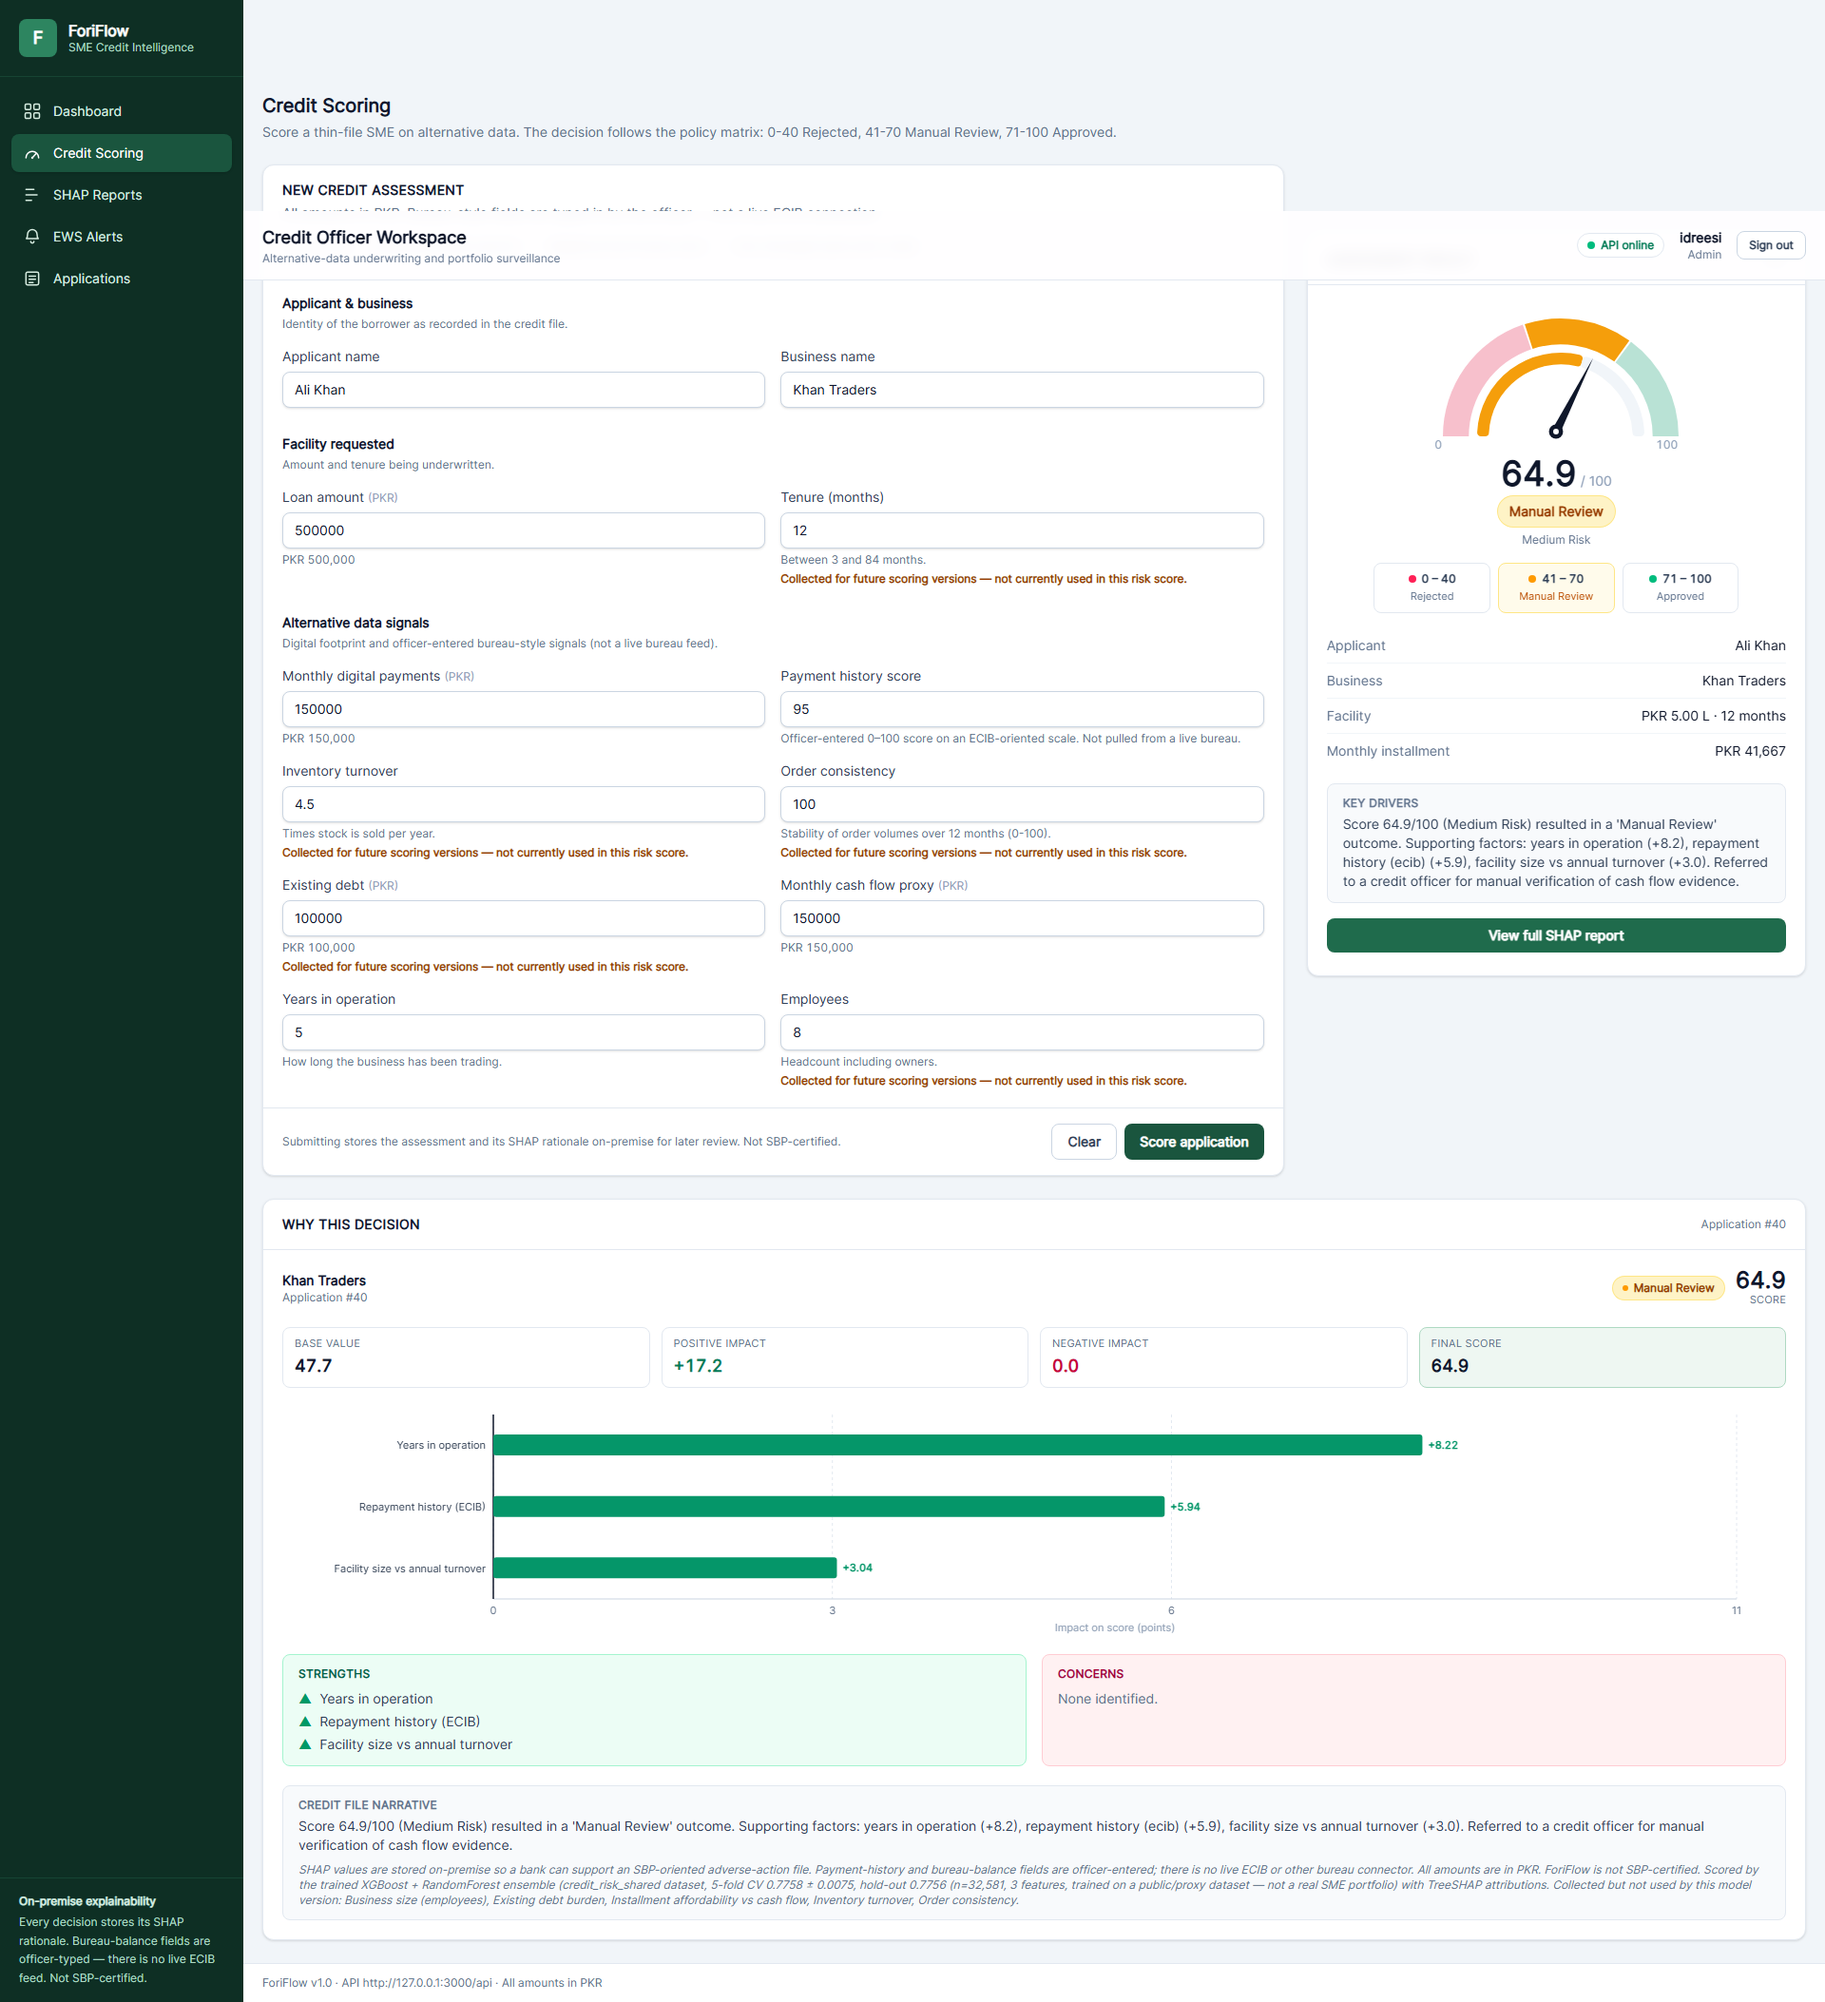
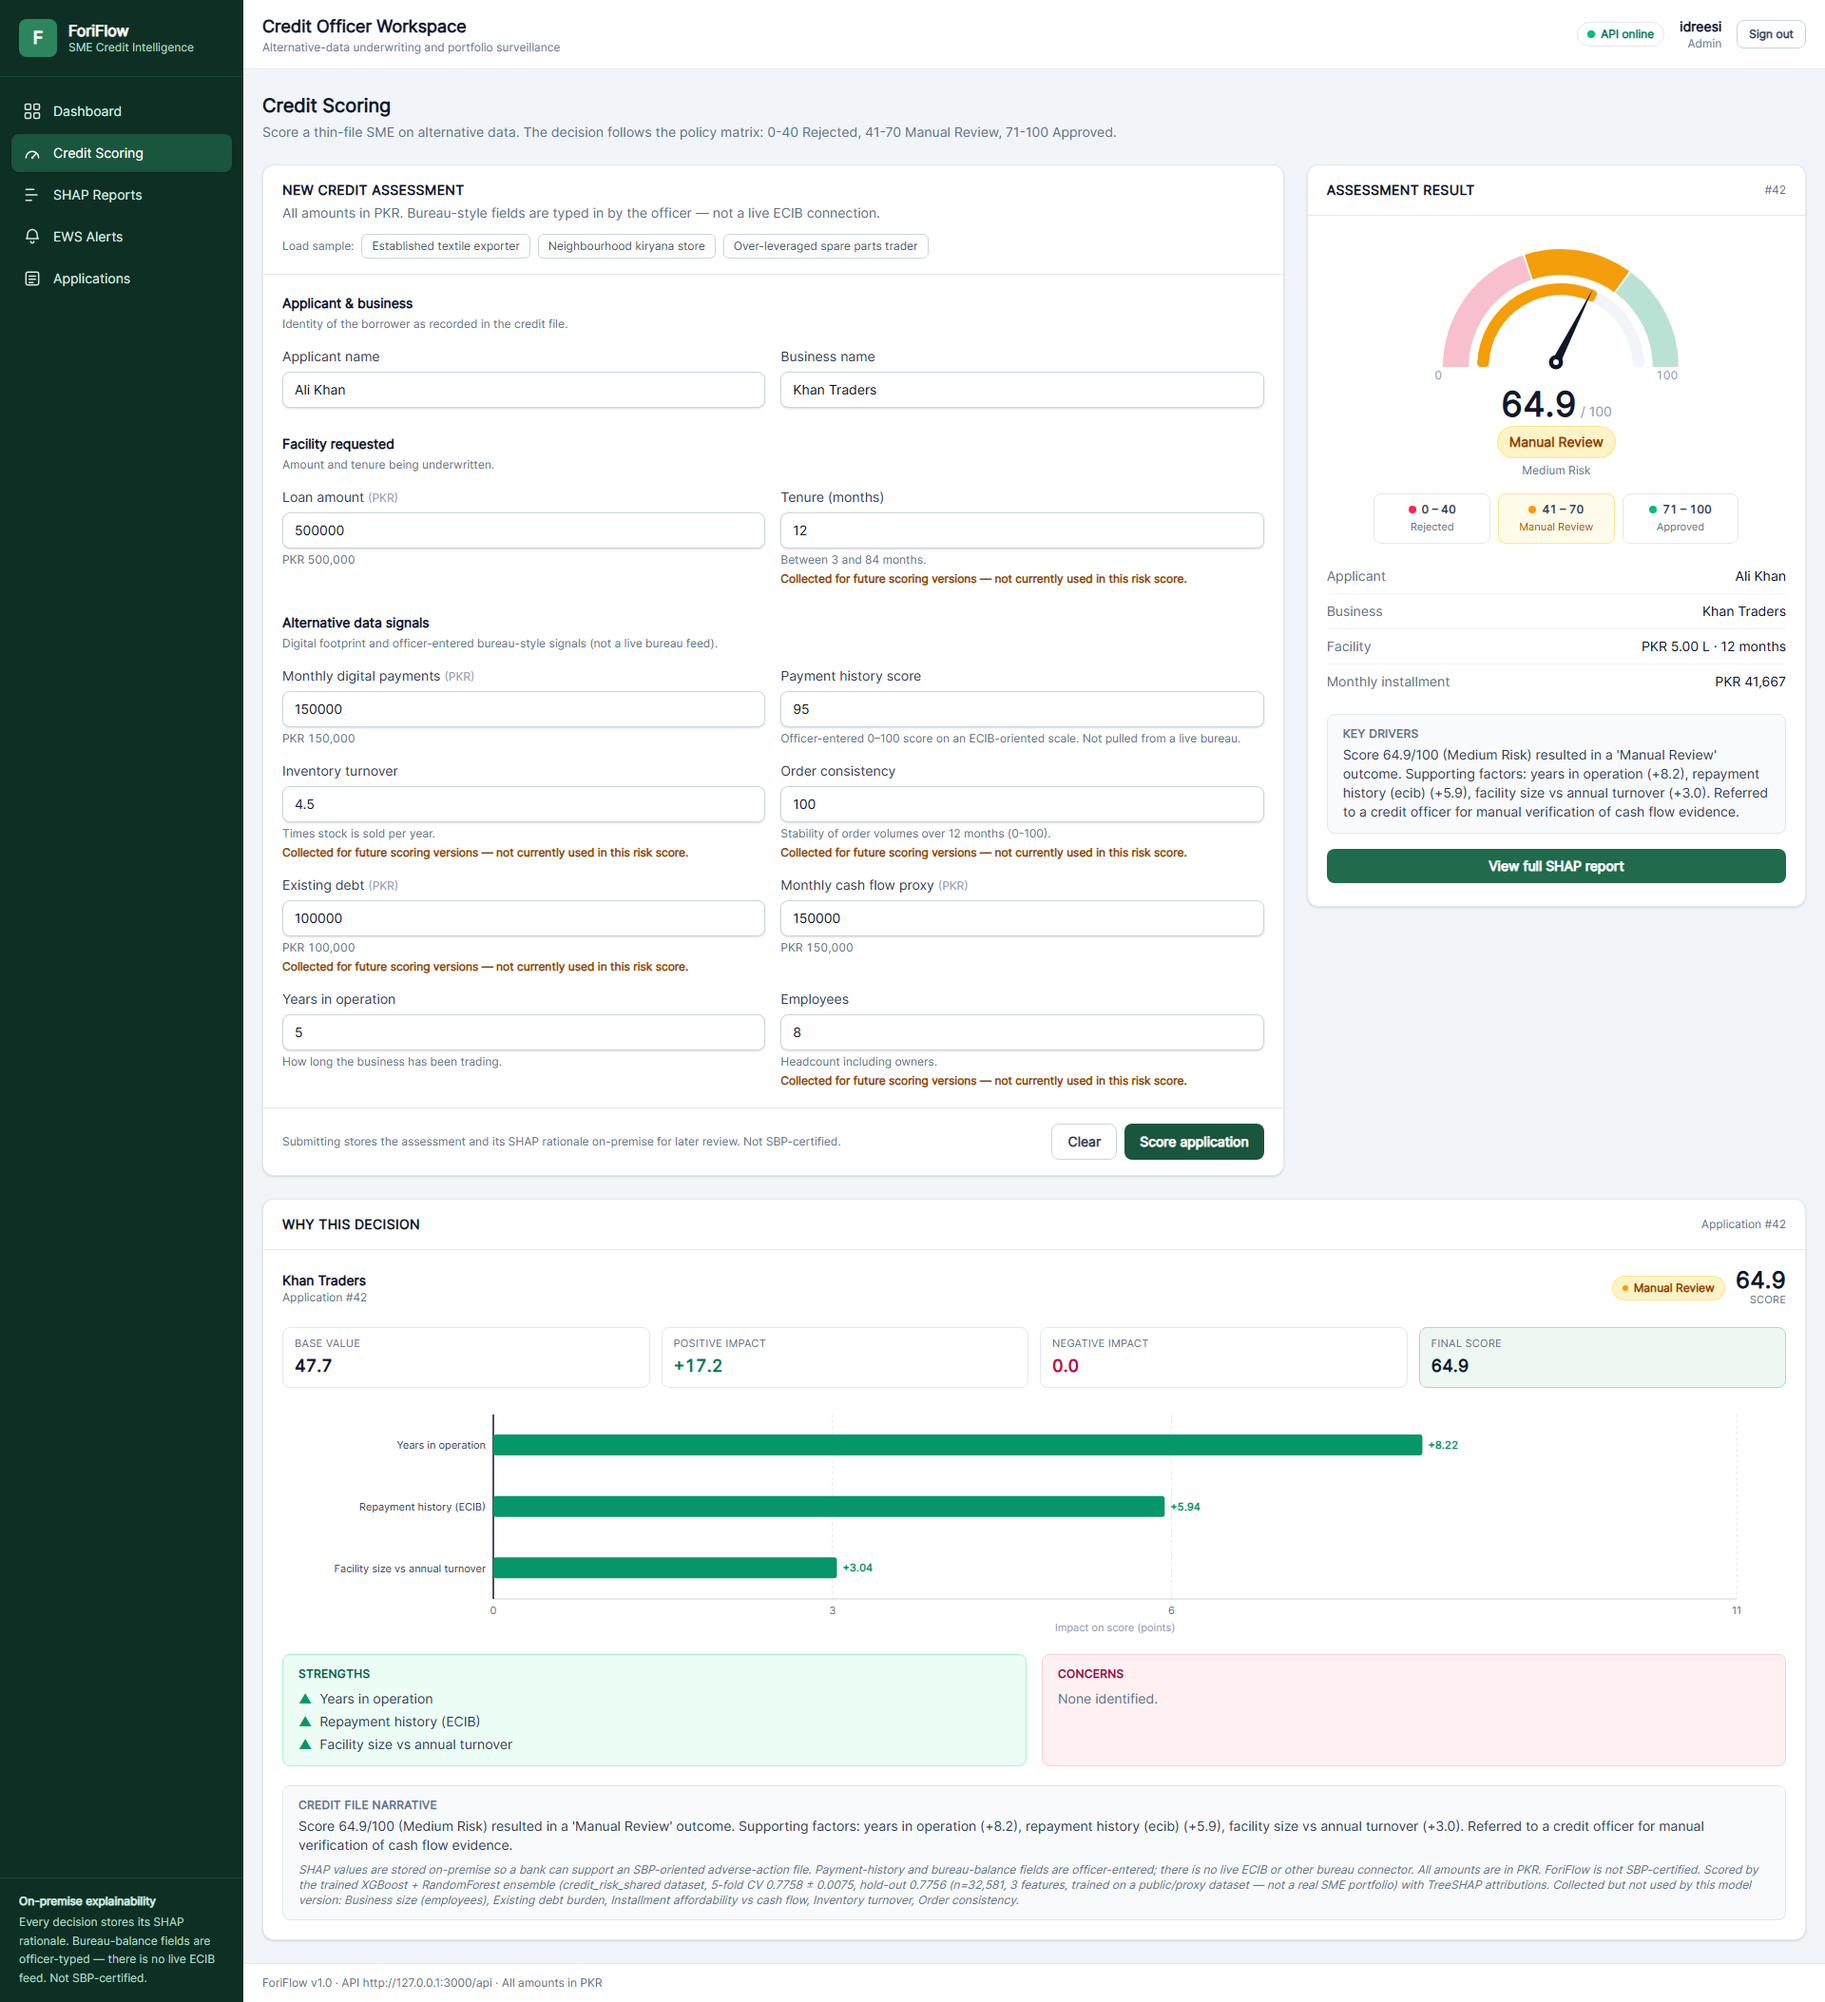
Fix full-page screenshot ghosting from sticky header/panel
- capture_auth2.py: the persistent App.jsx header (`sticky top-0`) and the
  Credit Scoring result panel (`xl:sticky`) are intentional UX, but
  Playwright's full_page screenshot works by scrolling and stitching
  viewport tiles, so a `position: sticky` element got re-painted into every
  tile and baked a duplicated/ghosted header into the exported PNG on pages
  taller than one viewport. Neutralise sticky positioning (CSS override)
  right before each screenshot only, so the capture paints it once, in
  normal flow — the live app's own scrolling behaviour is untouched.
- scripts/cleanup_test_applications.py: generalised from hardcoded ids to
  matching by applicant/business name, and added --keep 0 to wipe every
  demo row for a clean slate before a final capture, instead of just
  collapsing to the newest one.
- Recaptured all 7 docs/screenshots/*.png and frontend/public/fyp-poster/*
  from a clean slate (5 real applications + exactly one fresh demo row,
  #42) and regenerated docs/foriflow-poster.png — no more ghost header,
  application counts consistent across every screenshot.

Claude-Session: https://claude.ai/code/session_01NqdHcg62jAHxXwKBF9J1R1

diff --git a/scripts/cleanup_test_applications.py b/scripts/cleanup_test_applications.py
@@ -1,14 +1,15 @@
-"""Delete the two test applications the screenshot-capture script created.
+"""Collapse the screenshot-capture script's test applications to at most one.
 
-capture_auth.py / capture_auth2.py submit a real scoring request each run
-(needed to produce the "result" screenshot). That created two rows in the
-live `applications` table: id 38 and id 39, both applicant "Ali Khan",
-business "Khan Traders". This script removes exactly those two rows and
-nothing else — the WHERE clause matches on id AND applicant_name AND
-business_name together, so it refuses to touch any row that doesn't match
-all three, even if ids were reused by something else in the meantime.
+capture_auth2.py submits a real scoring request every run (needed to produce
+the "result" screenshot), each time creating a new row in the live
+`applications` table for applicant "Ali Khan", business "Khan Traders". Run
+this after a capture session to delete every row matching that name pair
+*except the newest one* — so repeated capture runs never pile up duplicate
+demo entries, but the one row a fresh "result" screenshot actually points at
+is always left in place. Matching is by applicant_name + business_name, not
+by id, since the id changes every run.
 
-Alerts / EWS rows for those two applications (if any) cascade-delete
+Alerts / EWS rows for deleted applications (if any) cascade-delete
 automatically (ForeignKey ondelete="CASCADE" in backend/models/database.py).
 
 Run with the stack's Postgres reachable on 127.0.0.1:5432 (Docker exposes it
@@ -19,12 +20,12 @@ there per docker-compose.yml):
 
 from __future__ import annotations
 
+import argparse
 import sys
 from pathlib import Path
 
 ROOT = Path(__file__).resolve().parent.parent
 
-TARGET_IDS = (38, 39)
 TARGET_APPLICANT = "Ali Khan"
 TARGET_BUSINESS = "Khan Traders"
 
@@ -48,6 +49,16 @@ def load_dotenv(root: Path) -> dict:
 
 
 def main() -> int:
+    parser = argparse.ArgumentParser(description=__doc__)
+    parser.add_argument(
+        "--keep",
+        type=int,
+        default=1,
+        choices=(0, 1),
+        help="Rows to keep (default 1, the newest). --keep 0 wipes every demo row for a clean slate.",
+    )
+    args = parser.parse_args()
+
     try:
         import psycopg2
     except ImportError:
@@ -68,36 +79,37 @@ def main() -> int:
     try:
         with conn.cursor() as cur:
             cur.execute(
-                "SELECT id, applicant_name, business_name, risk_score, decision, created_at "
-                "FROM applications WHERE id = ANY(%s) ORDER BY id",
-                (list(TARGET_IDS),),
+                "SELECT id, risk_score, decision, created_at FROM applications "
+                "WHERE applicant_name = %s AND business_name = %s ORDER BY created_at DESC, id DESC",
+                (TARGET_APPLICANT, TARGET_BUSINESS),
             )
             rows = cur.fetchall()
             if not rows:
-                log("warn", f"No rows found with id in {TARGET_IDS} — nothing to delete.")
+                log("warn", f"No {TARGET_APPLICANT!r}/{TARGET_BUSINESS!r} rows found — nothing to do.")
                 return 0
 
-            log("info", "Rows found before delete:")
-            for r in rows:
-                print(f"  id={r[0]} applicant={r[1]!r} business={r[2]!r} score={r[3]} decision={r[4]!r} created={r[5]}")
+            if args.keep == 1:
+                keep, drop = rows[0], rows[1:]
+                log("info", f"Keeping newest: id={keep[0]} score={keep[1]} decision={keep[2]!r} created={keep[3]}")
+            else:
+                drop = rows
+                log("info", "Clean slate: deleting every matching row.")
+            if not drop:
+                log("ok", "Nothing to delete.")
+                return 0
 
-            mismatched = [r for r in rows if r[1] != TARGET_APPLICANT or r[2] != TARGET_BUSINESS]
-            if mismatched:
-                log(
-                    "err",
-                    f"Refusing to delete: {len(mismatched)} row(s) with id in {TARGET_IDS} do not match "
-                    f"applicant={TARGET_APPLICANT!r} business={TARGET_BUSINESS!r}. Aborting, nothing changed.",
-                )
-                conn.rollback()
-                return 1
+            drop_ids = [r[0] for r in drop]
+            for r in drop:
+                print(f"  deleting id={r[0]} score={r[1]} decision={r[2]!r} created={r[3]}")
 
             cur.execute(
                 "DELETE FROM applications WHERE id = ANY(%s) AND applicant_name = %s AND business_name = %s",
-                (list(TARGET_IDS), TARGET_APPLICANT, TARGET_BUSINESS),
+                (drop_ids, TARGET_APPLICANT, TARGET_BUSINESS),
             )
             deleted = cur.rowcount
             conn.commit()
-            log("ok", f"Deleted {deleted} row(s): id in {TARGET_IDS}.")
+            kept_note = f" Kept id={keep[0]}." if args.keep == 1 else " Kept none."
+            log("ok", f"Deleted {deleted} row(s): id in {drop_ids}.{kept_note}")
 
             cur.execute("SELECT COUNT(*) FROM applications")
             (total,) = cur.fetchone()

diff --git a/scripts/capture_auth2.py b/scripts/capture_auth2.py
@@ -7,7 +7,7 @@ nothing is hardcoded here.
 
 Run with the stack already up (start.bat)::
 
-    python scripts/capture_auth.py
+    python scripts/capture_auth2.py
 """
 
 from __future__ import annotations
@@ -91,10 +91,32 @@ def click_nav(page, label: str) -> None:
     page.wait_for_timeout(400)
 
 
+# App.jsx's <header> is `sticky top-0` and ApplicationForm.jsx's result
+# panel <aside> is `xl:sticky xl:top-6`, both by design for normal scrolling.
+# Playwright's full_page=True screenshot works by scrolling and stitching
+# viewport-sized tiles, and a `position: sticky` element gets re-painted at
+# the top of every tile it is still "stuck" in — on a page taller than one
+# viewport that shows up as a duplicated/ghosted header or panel baked into
+# the exported PNG. It is a screenshot-capture artifact, not a rendering bug
+# in the app: a person scrolling the real page never sees a duplicate. We
+# neutralise it only for the capture by forcing sticky elements static right
+# before each screenshot, which makes the full-page stitch paint them once,
+# in normal document flow, like everything else on the page.
+NEUTRALISE_STICKY_CSS = "[class*='sticky']{position:static !important;}"
+
+
+def _flatten_sticky(page) -> None:
+    try:
+        page.add_style_tag(content=NEUTRALISE_STICKY_CSS)
+    except Exception:  # noqa: BLE001 — never let this block a capture
+        pass
+
+
 def capture(page, filename: str, action) -> None:
     dest = OUT_DIR / filename
     try:
         action(page)
+        _flatten_sticky(page)
         page.screenshot(path=str(dest), full_page=True)
         log("ok", str(dest))
         return
@@ -103,6 +125,7 @@ def capture(page, filename: str, action) -> None:
         page.wait_for_timeout(5000)
         try:
             action(page)
+            _flatten_sticky(page)
             page.screenshot(path=str(dest), full_page=True)
             log("ok", str(dest))
         except Exception as second:  # noqa: BLE001

diff --git a/scripts/capture_swagger_only.py b/scripts/capture_swagger_only.py
@@ -1,0 +1,55 @@
+"""Recapture just docs/screenshots/07-swagger.png (no login/scoring needed —
+/docs is a public route). Standalone so a transient timeout on this one page
+doesn't force resubmitting the scoring form again."""
+
+from __future__ import annotations
+
+import sys
+import time
+import urllib.error
+import urllib.request
+from pathlib import Path
+
+ROOT = Path(__file__).resolve().parent.parent
+OUT_DIR = ROOT / "docs" / "screenshots"
+BACKEND = "http://127.0.0.1:8000"
+
+
+def log(kind: str, message: str) -> None:
+    codes = {"ok": "32", "warn": "33", "err": "31", "info": "36"}
+    print(f"\033[{codes.get(kind, '0')}m[{kind.upper()}]\033[0m {message}")
+
+
+def http_ok(url: str, timeout: float = 2.5) -> bool:
+    try:
+        with urllib.request.urlopen(url, timeout=timeout) as response:
+            return 200 <= response.status < 500
+    except (urllib.error.URLError, TimeoutError, OSError):
+        return False
+
+
+def main() -> int:
+    from playwright.sync_api import sync_playwright
+
+    for _ in range(10):
+        if http_ok(f"{BACKEND}/health"):
+            break
+        log("info", "Waiting for backend...")
+        time.sleep(3)
+
+    with sync_playwright() as playwright:
+        browser = playwright.chromium.launch(headless=True)
+        page = browser.new_page(viewport={"width": 1920, "height": 1080}, color_scheme="light")
+        page.goto(f"{BACKEND}/docs", wait_until="load", timeout=60000)
+        page.locator(".swagger-ui .opblock, .swagger-ui .info").first.wait_for(timeout=45000)
+        page.wait_for_timeout(1000)
+        page.add_style_tag(content="[class*='sticky']{position:static !important;}")
+        dest = OUT_DIR / "07-swagger.png"
+        page.screenshot(path=str(dest), full_page=True)
+        log("ok", str(dest))
+        browser.close()
+    return 0
+
+
+if __name__ == "__main__":
+    sys.exit(main())
